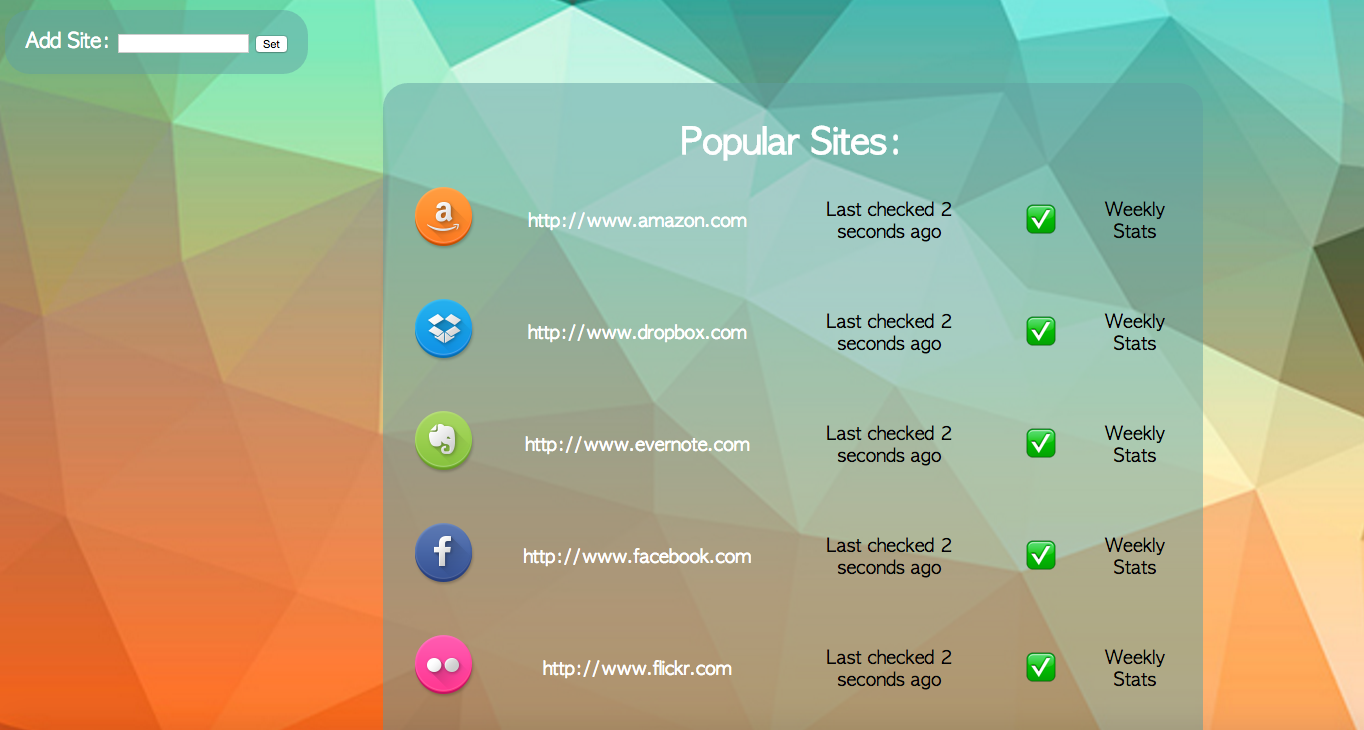
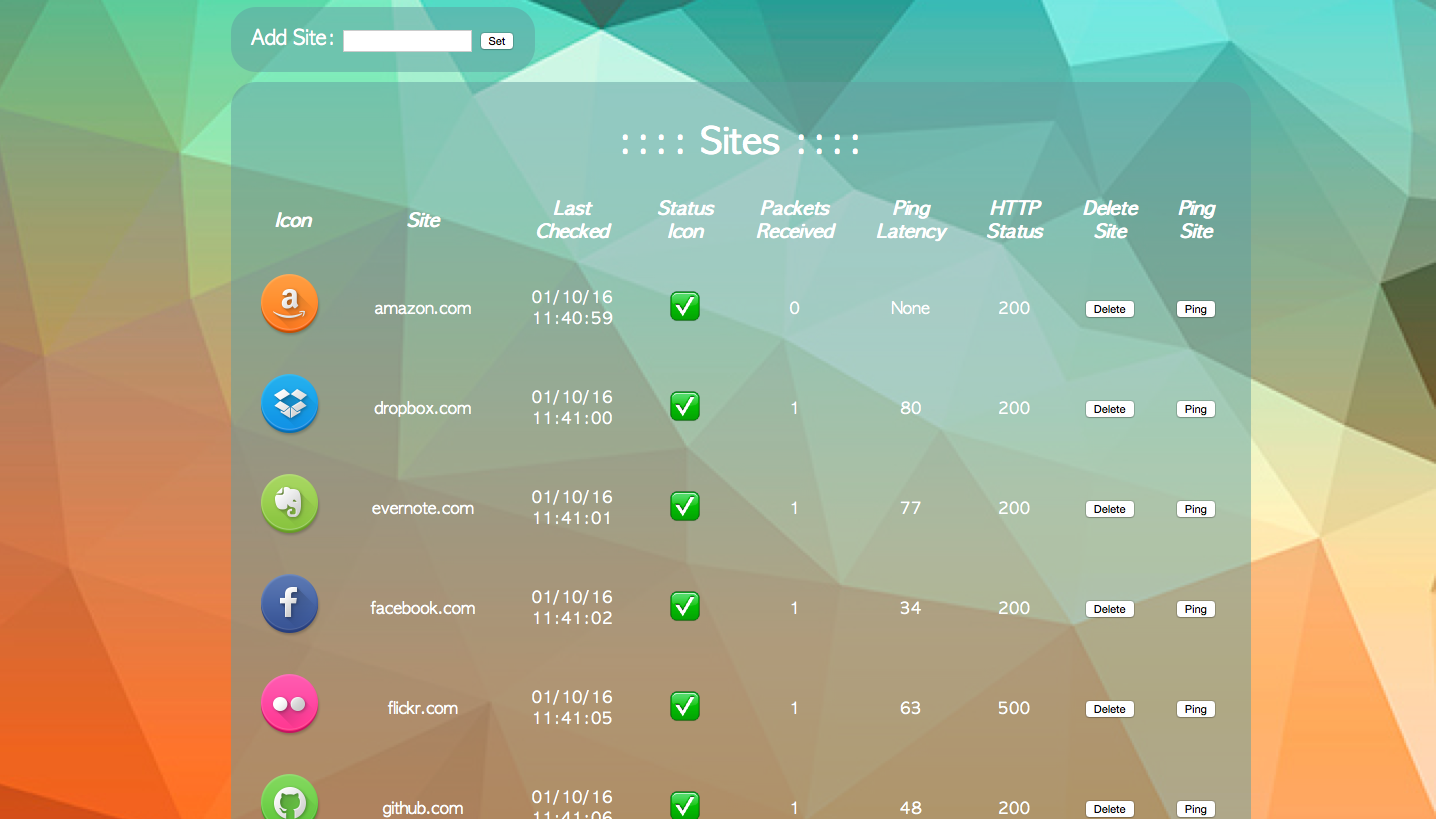
Commit No. 63 - implemented urlparse, changed date-time formatting and css and updated preview screenshot

diff --git a/public/css/style.css b/public/css/style.css
@@ -7,7 +7,7 @@ html {
 }
 
 #b1 {
-    margin-left: 2cm;
+    margin-left: 6cm;
     font-family: 'Century Gothic',CenturyGothic,AppleGothic,sans-serif;
     font-style: normal;
     font-variant: normal;
@@ -22,9 +22,9 @@ html {
 }
 
 #b2 {
-    border: 1px solid gray;
+    padding: 10px;
     margin-top: 30px;
-    margin-left: 2cm;
+    margin-left: 6cm;
 /* Increase this to make the boxes appear a little more to the left  */
     text-align: center;
 /* Centers the font within the width of the box  */
@@ -35,7 +35,7 @@ html {
     border-radius: 25px;
 /* Rounds the edges  */
 
-    width: 1200px;
+    width: 1000px;
 }
 
 a:link {
@@ -48,6 +48,7 @@ caption {
     font-size: 35px;
     color: #FFF;
     margin-top: 30px;
+    padding-bottom: 12px;
     font-weight: 700;
 }
 
@@ -58,11 +59,10 @@ form {
 }
 
 td {
-    font-size: 14px;
-    border: 1px solid gray;
+    font-size: 16px;
+    /* padding: 0; */
 }
 
 th {
-    font-size: 16px;
-    border: 1px solid gray;
+    font-size: 18px;
 }

diff --git a/public/app.js b/public/app.js
@@ -14,7 +14,7 @@ get_sites.done(function(sites) {
     var table_string = "";
     var strings = ["Icon", "Site", "Last Checked", "Status Icon", "Packets Received", "Ping Latency", "HTTP Status", "Delete Site", "Ping Site"];
     for (i = 0; i < strings.length; i++) {
-        table_string += "<th style=\"color: #FFFFFF\">" + strings[i] + "</th>";
+        table_string += "<th style=\"color: #FFFFFF\"><i>" + strings[i] + "</i></th>";
 
     }
     new_table_string = "<tr>" + table_string + "</tr>";
@@ -34,7 +34,7 @@ get_sites.done(function(sites) {
             "&#34;)\">Delete</button>" + "</td><td>" +
             "<button type=\"button\" onclick=\"ping_the_site(&#34;" +
             site_urls[i] + "&#34;, &#34;" + site_urls[i] +
-            "&#34;)\">Ping Now</button>" + "</td></tr>";
+            "&#34;)\">Ping</button>" + "</td></tr>";
     }
     document.getElementById("sites").innerHTML = table_string;
     // ever 5 min do a location.reload()

diff --git a/public/Site Monitoring Dashboard.html b/public/Site Monitoring Dashboard.html
@@ -13,7 +13,7 @@
         </div>
     </form>
     <div id="b2">
-        <table align="center" cellpadding="10" cellspacing="1">
+        <table align="center" cellpadding="10" cellspacing="10">
             <caption>
                 :::: Sites ::::
             </caption>

diff --git a/app.py b/app.py
@@ -4,9 +4,11 @@ import sqlite3
 import httplib
 import time
 from threading import Thread
+from urlparse import urlparse
 import re
 import subprocess
 import urllib
+import datetime
 
 up_symbol = 9989
 down_symbol = 10062
@@ -43,6 +45,7 @@ class Database(object):
 
         icon_list = []
         db.url_list = []
+        db.url_list2 = []
         last_checked_list = []
         status_icon_list = []
         ping_status_list = []
@@ -68,9 +71,21 @@ class Database(object):
             background_worker.start()
             background_started = True
 
+        for url in db.url_list:
+            #strip url down here
+            o = urlparse(url)
+            domain = o.hostname
+            temp = domain.rsplit('.')
+            if (len(temp) == 3):
+                domain = temp[1] + '.' + temp[2]
+                print 'domain is ' + str(domain)
+
+            db.url_list2.append(domain)
+
+
         return {
             'icon_list': icon_list,
-            'url_list': db.url_list,
+            'url_list': db.url_list2,
             'last_checked_list': last_checked_list,
             'status_icon_list': status_icon_list,
             'ping_status_list': ping_status_list,
@@ -114,32 +129,36 @@ class Site(object):
     def background_status_check(self):
         """Return an up or down status icon after
         checking each url in the database"""
-        if len(db.url_list) == 0:
-            time.sleep(1)
-        print "For checking purposes: in background_status_check, list is" + str(db.url_list)
-        
         status_icon_list = []
         last_checked_list = []
         ping_response_list = []
         ping_latency_list = []
         http_status_list = []
 
+        if len(db.url_list) == 0:
+            time.sleep(1)
+        print "For checking purposes: in background_status_check, list is" + str(db.url_list)
+        
         for url in db.url_list:
             print 'url before ping_item is ' + url
             print 'type for url is ' + str(type(url))
+            # result was unicode here
             if isinstance(url, unicode):
                 ping_item = str(url)
+                print 'if isinstance was unicode, ping item is now ' + str(ping_item)
             else:
                 ping_item = str(url[0])
+                print 'if isinstance was not unicode, ping item is now ' + str(ping_item)
 
-            print 'ping_item is ' + ping_item
             http_item = ping_item
             url_item = ping_item
-            print 'ping item or url is ' + str(ping_item)
-            if ping_item.startswith('http://'):
-                ping_item = ping_item[7:]
+
+            ping_item_parse = urlparse(ping_item)
+            ping_item = ping_item_parse.hostname
+
             ping_response = 42
             ping_latency = 5000
+
             try:
                 ping = subprocess.Popen(["ping", "-n", "-c 1", ping_item], stdout=subprocess.PIPE, stderr=subprocess.PIPE)
                 out, error = ping.communicate()
@@ -158,6 +177,7 @@ class Site(object):
                         ping_latency = 'None'
                     else:
                         print 'No ping'
+                        #this doens't make sense
 
             except subprocess.CalledProcessError:
                 print "Couldn't get a ping"
@@ -168,7 +188,10 @@ class Site(object):
             print 'final url was ' + str(final_url)
             print 'http code is ' + str(http_code)
 
-            c_time = time.ctime() 
+            #c_time = time.ctime()
+            c_time = time.strftime("%x %X")
+
+            #c_time = datetime.datetime.strptime(time.ctime(), "%x %X") 
 
 
             if ping_response == 1 \
@@ -230,6 +253,3 @@ cherrypy.tree.mount(app.site, '/Site')
 cherrypy.tree.mount(app.site.database, '/Site/Database')
 cherrypy.engine.start()
 cherrypy.engine.block()
-
-
-
